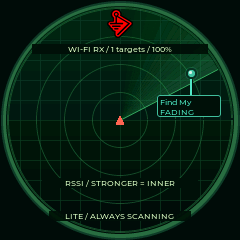
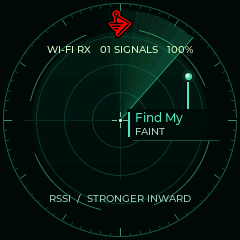
Refine Lite radar readability and rendering performance

Changed region(s): [[0.0, 0.0, 1.0, 1.0], [0.5833, 0.1167, 0.6417, 0.1458]]

diff --git a/web/index.html b/web/index.html
@@ -1,13 +1,13 @@
 <!doctype html>
-<html lang="en"><head><meta charset="utf-8"><meta name="viewport" content="width=device-width,initial-scale=1"><meta name="theme-color" content="#061b13"><title>Dragon Detector · Carry your radar</title><link rel="stylesheet" href="style.css?v=0.9.4-radar1"><script type="module" src="https://unpkg.com/esp-web-tools@10.4.0/dist/web/install-button.js?module"></script><script type="module" src="app.js?v=0.9.4"></script></head>
+<html lang="en"><head><meta charset="utf-8"><meta name="viewport" content="width=device-width,initial-scale=1"><meta name="theme-color" content="#061b13"><title>Dragon Detector · Carry your radar</title><link rel="stylesheet" href="style.css?v=0.9.5-radar1"><script type="module" src="https://unpkg.com/esp-web-tools@10.4.0/dist/web/install-button.js?module"></script><script type="module" src="app.js?v=0.9.5"></script></head>
 <body>
 <header><a class="brand" href="#"><img src="assets/BWM1-official.png" alt="BWM1 logo" width="32" height="36"> DRAGON DETECTOR</a><nav><a href="#install">Install</a><a href="#detector">Detector tools</a><a href="#sound">Audio</a><a href="#studio">Badge Studio</a><a href="https://github.com/valleytechsolutions/Dragon-Detector">GitHub ↗</a></nav></header>
 <main>
-<section class="hero"><div><p class="eyebrow">VALLEYTECH / DETECTION / HUNT EDITION / 0.9.4</p><h1>Carry your<br><em>radar.</em></h1><p class="lede">Three radar themes. A little more awareness.<br>Axon priority alerts, signal hunts, and local history.<br>Your pocket radar, with evidence behind every match.</p><div class="actions"><a class="button primary" href="#install">Choose your board <span>↗</span></a><a class="text-link" href="#detector">Open detector tools →</a></div><div class="hero-meta"><span>5 BOARD PROFILES · 1 LITE</span><span>MIT SOURCE</span><span>NO ACCOUNT</span></div></div>
+<section class="hero"><div><p class="eyebrow">VALLEYTECH / DETECTION / HUNT EDITION / 0.9.5</p><h1>Carry your<br><em>radar.</em></h1><p class="lede">Three radar themes. A little more awareness.<br>Axon priority alerts, signal hunts, and local history.<br>Your pocket radar, with evidence behind every match.</p><div class="actions"><a class="button primary" href="#install">Choose your board <span>↗</span></a><a class="text-link" href="#detector">Open detector tools →</a></div><div class="hero-meta"><span>5 BOARD PROFILES · 1 LITE</span><span>MIT SOURCE</span><span>NO ACCOUNT</span></div></div>
 <div class="radar-art"><img class="radar-capture" src="assets/radar-green-v091.png" alt="Actual M5Stack display render: BWM1 logo, animated green radar and labeled signal dots" width="466" height="466"><p>ACTUAL M5STACK DISPLAY RENDER · 0.9.1</p></div></section>
 <div class="feature-strip"><p><b>Notice the signal.</b><span>Fresh candidate signatures, with evidence.</span></p><p><b>Follow the change.</b><span>Filtered RSSI and dedicated target listening.</span></p><p><b>Keep the evidence.</b><span>Local history, watch lists, and USB CSV export.</span></p></div>
-<div class="theme-gallery" aria-label="Radar themes"><figure><img src="assets/radar-green-v091.png" alt="Green radar theme, actual M5Stack render" width="466" height="466"><figcaption>GREEN RADAR · DEFAULT</figcaption></figure><figure><img src="assets/radar-dragon-v091.png" alt="Dragon Ball theme, actual M5Stack render" width="466" height="466"><figcaption>DRAGON BALL</figcaption></figure><figure><img src="assets/radar-gold-v091.png" alt="Black, gold and red theme, actual M5Stack render" width="466" height="466"><figcaption>BLACK / GOLD / RED</figcaption></figure></div><p class="release-note">Every device family keeps its own color across all three themes. Bright labels and outlined leaders identify every plotted dot. Six labeled signals per radar page keep crowded scans readable. Full-feature boards offer themes in Settings or the USB controls below; Lite uses green radar with automatic pages. recent signals show their last-seen age.</p><section id="install"><div class="section-heading"><div><p class="eyebrow">01 / GET STARTED</p><h2>One radar. Five profiles.</h2></div><p>Desktop Chrome or Edge · USB data cable<br>Select the exact board/display combination. XIAO uses its own 8 MB layout.</p></div>
-<p class="release-note"><strong>0.9.4 experimental preview.</strong> The Lite profile adds always-on radar for the non-touch Waveshare 1.28-inch LCD. All five profiles share the detection engine. Waveshare and M5Stack display, touch and USB badge storage have basic hardware checks. Seeed XIAO Round validation is listed in the hardware notes. Spotpear hardware and all-day battery runtime still need testing. <a href="https://github.com/valleytechsolutions/Dragon-Detector/blob/main/docs/VALIDATION.md">View validation status →</a></p>
+<div class="theme-gallery" aria-label="Radar themes"><figure><img src="assets/radar-green-v091.png" alt="Green radar theme, actual M5Stack render" width="466" height="466"><figcaption>GREEN RADAR · DEFAULT</figcaption></figure><figure><img src="assets/radar-dragon-v091.png" alt="Dragon Ball theme, actual M5Stack render" width="466" height="466"><figcaption>DRAGON BALL</figcaption></figure><figure><img src="assets/radar-gold-v091.png" alt="Black, gold and red theme, actual M5Stack render" width="466" height="466"><figcaption>BLACK / GOLD / RED</figcaption></figure></div><p class="release-note">Every device family keeps its own color across all three themes. Bright labels and outlined leaders identify every plotted dot. Full boards show six labeled signals per radar page; Lite shows four with larger text. Full-feature boards offer themes in Settings or the USB controls below; Lite uses green radar with automatic pages. Recent signals show their last-seen age.</p><section id="install"><div class="section-heading"><div><p class="eyebrow">01 / GET STARTED</p><h2>One radar. Five profiles.</h2></div><p>Desktop Chrome or Edge · USB data cable<br>Select the exact board/display combination. XIAO uses its own 8 MB layout.</p></div>
+<p class="release-note"><strong>0.9.5 experimental preview.</strong> The Lite profile adds always-on radar for the non-touch Waveshare 1.28-inch LCD, now with larger device names, slim callouts and smoother radar animation. All five profiles share the detection engine. Waveshare and M5Stack display, touch and USB badge storage have basic hardware checks. Seeed XIAO Round validation is listed in the hardware notes. Spotpear hardware and all-day battery runtime still need testing. <a href="https://github.com/valleytechsolutions/Dragon-Detector/blob/main/docs/VALIDATION.md">View validation status →</a></p>
 <div class="boards" role="group" aria-label="Choose hardware">
 <button class="board" data-board="spotpear" aria-pressed="false"><span class="board-number">01</span><span class="device-outline lcd"><span>360 × 360</span></span><b>Spotpear / Guition</b><span>JC3636W518 · round LCD</span><small>Touch navigation · microSD logs</small></button>
 <button class="board" data-board="waveshare" aria-pressed="false"><span class="board-number">02</span><span class="device-outline amoled"><span>466 × 466</span></span><b>Waveshare AMOLED</b><span>ESP32-S3-Touch-AMOLED-1.75C</span><small>C variant only · BOOT + short PWR</small></button>

diff --git a/web/app.js b/web/app.js
@@ -3,9 +3,9 @@ import {BadgeSerial} from './serial.js';
 import {encodeBadge} from './badge-codec.js';
 import {uploadBadge} from './badge-transfer.js';
 import {readHistory} from './detector-transfer.js';
-import {parseBadgeInfo,hasDetectorTools,hasActivityTools,hasRadarTools,hasWearableTools} from './firmware-compat.js?v=0.9.4';
+import {parseBadgeInfo,hasDetectorTools,hasActivityTools,hasRadarTools,hasWearableTools} from './firmware-compat.js?v=0.9.5';
 import {readRadarSettings,saveRadarSettings} from './radar-transfer.js';
-import {boardProfiles,connectedProfile,validateManifest,supportsBadge} from './board-profiles.js?v=0.9.4';
+import {boardProfiles,connectedProfile,validateManifest,supportsBadge} from './board-profiles.js?v=0.9.5';
 import {badgeTransform,fitBadgeZoom,panFromPointer,rescalePan} from './badge-editor.js';
 const $ = id => document.getElementById(id);
 const models = Object.fromEntries(Object.entries(boardProfiles).map(([id,p])=>[id,p.name]));

diff --git a/firmware/src/ui_lite.cpp b/firmware/src/ui_lite.cpp
@@ -3,15 +3,16 @@
 #include "radar_layout.h"
 #include <lvgl.h>
 #include <math.h>
+#include <esp_heap_caps.h>
 #define S(v) (((v)*SCREEN_RES+((v)>=0?180:-180))/360)
-#define FCALLOUT (&lv_font_montserrat_8)
+#define FCALLOUT (&lv_font_montserrat_12)
 extern void scr_lvgl_init();
 extern const lv_img_dsc_t radar_logo;
 static constexpr int CENTER=SCREEN_RES/2;
 struct RadarPalette {uint32_t top,bottom,grid,ring,dot,sweep,text,panel;};
 static constexpr RadarPalette radarPalettes[]={
   {0x20b970,0x0c9553,0x095134,0xe0e5cd,0xffec50,0xb9ff72,0xfffae2,0x064a2e},
-  {0x09291c,0x020c08,0x153d28,0x286c42,0xc0ff65,0x52dc84,0xdbf9c3,0x0b2419}
+  {0x061f1b,0x020c0c,0x0c3027,0x286c52,0xc0ff65,0x45efad,0xdbf9c3,0x0b2419}
 };
 static constexpr unsigned radarTheme=1;
 static constexpr bool radarLabels=true;
@@ -20,40 +21,61 @@ static uint32_t radarPrepared=0;
 static int radarOrder[MAX_CONTACTS],radarCount=0;
 static uint32_t radarFrameAt=0;
 struct Dot {int x,y,index;dragon::DeviceKey key;int labelSlot=-1;};
-static Dot dots[dragon::RadarPageSize];static int dotCount=0;
+static Dot dots[dragon::LiteRadarPageSize];static int dotCount=0;
 static lv_color_t color(uint32_t c){return lv_color_hex(c);}
+static lv_img_dsc_t liteBackdrop;
+// Paint immutable instrument geometry once. Keep the internal display tile free
+// for moving content; this cache costs 115 KB of the otherwise idle PSRAM.
+static void prepareLiteBackdrop(lv_obj_t* root){
+  auto* pixels=(lv_color_t*)heap_caps_malloc(SCREEN_RES*SCREEN_RES*sizeof(lv_color_t),MALLOC_CAP_SPIRAM|MALLOC_CAP_8BIT);
+  if(!pixels){Serial.println("LITE_BACKGROUND cache unavailable");return;}
+  auto* canvas=lv_canvas_create(root);lv_canvas_set_buffer(canvas,pixels,SCREEN_RES,SCREEN_RES,LV_IMG_CF_TRUE_COLOR);lv_canvas_fill_bg(canvas,color(0x020b0b),LV_OPA_COVER);
+  lv_draw_rect_dsc_t field;lv_draw_rect_dsc_init(&field);field.radius=LV_RADIUS_CIRCLE;field.bg_color=color(0x061f1b);field.bg_grad.dir=LV_GRAD_DIR_VER;field.bg_grad.stops[0].color=field.bg_color;field.bg_grad.stops[1].color=color(0x020c0c);
+  lv_canvas_draw_rect(canvas,32,32,176,176,&field);
+  lv_draw_arc_dsc_t arc;lv_draw_arc_dsc_init(&arc);arc.width=1;arc.color=color(0x153e32);
+  for(int r:{28,56,84})lv_canvas_draw_arc(canvas,CENTER,CENTER,r,0,359,&arc);
+  arc.color=color(0x245f4c);lv_canvas_draw_arc(canvas,CENTER,CENTER,117,0,359,&arc);
+  arc.color=color(0x307b5d);for(int a=12;a<360;a+=90)lv_canvas_draw_arc(canvas,CENTER,CENTER,92,a,a+56,&arc);
+  lv_draw_line_dsc_t d;lv_draw_line_dsc_init(&d);d.width=1;d.color=color(0x0b2a23);
+  lv_point_t horizontal[]={{24,120},{216,120}},vertical[]={{120,64},{120,180}};
+  lv_canvas_draw_line(canvas,horizontal,2,&d);lv_canvas_draw_line(canvas,vertical,2,&d);
+  for(int deg=0;deg<360;deg+=5){float a=deg*.0174532925f;int inner=deg%30==0?108:113;d.color=color(deg%30==0?0x44866a:0x1c483b);
+    lv_point_t p[]={{lv_coord_t(CENTER+lroundf(cosf(a)*inner)),lv_coord_t(CENTER+lroundf(sinf(a)*inner))},{lv_coord_t(CENTER+lroundf(cosf(a)*116)),lv_coord_t(CENTER+lroundf(sinf(a)*116))}};lv_canvas_draw_line(canvas,p,2,&d);
+  }
+  liteBackdrop=*lv_canvas_get_img(canvas);lv_obj_del(canvas);
+}
 #include "radar_renderer.inc"
 static lv_obj_t *root,*radar,*status,*activity,*pageLabel,*notice;
 static uint32_t noticeAt=0,lastFrame=0,frames=0;
 static lv_obj_t* text(const char* value,int y,int width,const lv_font_t* font,uint32_t rgb){
   auto* o=lv_label_create(root);lv_label_set_text(o,value);lv_obj_set_size(o,width,LV_SIZE_CONTENT);lv_obj_set_pos(o,(SCREEN_RES-width)/2,y);
   lv_obj_set_style_text_font(o,font,0);lv_obj_set_style_text_color(o,color(rgb),0);lv_obj_set_style_text_align(o,LV_TEXT_ALIGN_CENTER,0);
-  lv_obj_set_style_bg_color(o,color(dragon::RadarLabelBackground),0);lv_obj_set_style_bg_opa(o,LV_OPA_90,0);lv_label_set_long_mode(o,LV_LABEL_LONG_DOT);return o;
+  lv_label_set_long_mode(o,LV_LABEL_LONG_DOT);return o;
 }
 void uiBegin(){
   candidatesOnly=true;radarRecent=true;scr_lvgl_init();root=lv_scr_act();lv_obj_clear_flag(root,LV_OBJ_FLAG_SCROLLABLE);lv_obj_set_style_bg_color(root,color(0x020c08),0);
+  prepareLiteBackdrop(root);
   radar=lv_obj_create(root);lv_obj_remove_style_all(radar);lv_obj_set_pos(radar,0,0);lv_obj_set_size(radar,SCREEN_RES,SCREEN_RES);lv_obj_clear_flag(radar,LV_OBJ_FLAG_SCROLLABLE);lv_obj_clear_flag(radar,LV_OBJ_FLAG_CLICKABLE);
   lv_obj_add_event_cb(radar,radarDraw,LV_EVENT_DRAW_MAIN,nullptr);
   auto* logo=lv_img_create(root);lv_img_set_src(logo,&radar_logo);lv_obj_align(logo,LV_ALIGN_TOP_MID,0,9);
-  status=text("STARTING RADIO",44,176,&lv_font_montserrat_8,0xdbf9c3);
-  activity=text("",57,154,&lv_font_montserrat_8,0xffbc76);
-  pageLabel=text("",178,156,&lv_font_montserrat_10,0xdbf9c3);
-  notice=text("",191,154,&lv_font_montserrat_10,0xffe78a);
+  status=text("STARTING RADIO",44,184,&lv_font_montserrat_10,0xdbf9c3);
+  activity=text("",57,172,&lv_font_montserrat_10,0xffbc76);
+  pageLabel=text("",193,150,&lv_font_montserrat_10,0x9acbb7);
+  notice=text("",207,132,&lv_font_montserrat_10,0xffe78a);
   lv_obj_set_height(notice,13);lv_obj_add_flag(activity,LV_OBJ_FLAG_HIDDEN);lv_obj_add_flag(notice,LV_OBJ_FLAG_HIDDEN);
-  text("LITE / ALWAYS SCANNING",211,142,&lv_font_montserrat_8,0xdbf9c3);
 }
 void uiLoop(){
   const uint32_t now=millis();
   // Leave time between full radar draws to drain reception queues on the S3R2.
-  if(uint32_t(now-lastFrame)>=125){lastFrame=radarFrameAt=now;++frames;lv_obj_invalidate(radar);
-    char value[80];snprintf(value,sizeof(value),"%s RX / %d targets / 100%%",blePhase?"BLE":"WI-FI",radarCount);lv_label_set_text(status,value);
+  if(uint32_t(now-lastFrame)>=83){lastFrame=radarFrameAt=now;++frames;lv_obj_invalidate(radar);
+    char value[80];snprintf(value,sizeof(value),"%s RX   %02d SIGNALS   100%%",blePhase?"BLE":"WI-FI",radarCount);lv_label_set_text(status,value);
     const bool deauth=trafficStatus.disconnectActive(now),spam=trafficStatus.bleActive(now);
     lv_label_set_text(activity,deauth&&spam?"DEAUTH + BLE BURST":deauth?"DEAUTH ACTIVITY":spam?"BLE SPAM CANDIDATE":"");
     if(deauth||spam)lv_obj_clear_flag(activity,LV_OBJ_FLAG_HIDDEN);else lv_obj_add_flag(activity,LV_OBJ_FLAG_HIDDEN);
-    const unsigned pages=dragon::radarPages(radarCount);
-    if(pages>1)snprintf(value,sizeof(value),"TARGETS %u / %u",radarPage+1,pages);
-    else snprintf(value,sizeof(value),"%s",radarCount?"RSSI / STRONGER = INNER":"LISTENING FOR SIGNATURES");
-    lv_obj_set_style_text_font(pageLabel,pages>1?&lv_font_montserrat_10:&lv_font_montserrat_8,0);lv_label_set_text(pageLabel,value);
+    const unsigned pages=dragon::radarPages(radarCount,dragon::LiteRadarPageSize);
+    if(pages>1)snprintf(value,sizeof(value),"RSSI   /   PAGE %02u : %02u",radarPage+1,pages);
+    else snprintf(value,sizeof(value),"%s",radarCount?"RSSI  /  STRONGER INWARD":"SCANNING  /  BLE + WI-FI");
+    lv_label_set_text(pageLabel,value);
     if(!noticeAt||uint32_t(now-noticeAt)>5000)lv_obj_add_flag(notice,LV_OBJ_FLAG_HIDDEN);
   }
   lv_timer_handler();
@@ -64,8 +86,8 @@ void uiNotify(const char* title,const char*,const dragon::DeviceKey*,bool){
 void uiShow(const String&){} void uiKey(bool){}
 bool uiStopwatchKey(bool,uint64_t){return false;}
 bool uiCommand(const String& c){
-  if(c=="ui status"){Serial.printf("UI_STATUS page=radar lite=1 frames=%lu\n",frames);return true;}
-  if(c=="radar status"){Serial.printf("RADAR_SETTINGS theme=1 labels=1 recent=1 page=%u pages=%u plotted=%u auto_page_ms=7000\n",radarPage+1,dragon::radarPages(radarCount),dotCount);return true;}
+  if(c=="ui status"){Serial.printf("UI_STATUS page=radar lite=1 frames=%lu backdrop=%u frame_ms=83\n",frames,liteBackdrop.data?1:0);return true;}
+  if(c=="radar status"){Serial.printf("RADAR_SETTINGS theme=1 labels=1 recent=1 page=%u pages=%u plotted=%u auto_page_ms=7000\n",radarPage+1,dragon::radarPages(radarCount,dragon::LiteRadarPageSize),dotCount);return true;}
   if(c=="display status"){Serial.println("DISPLAY_SETTINGS brightness=100 output=100 dim=0 off=0 dim_level=0 wake=0");return true;}
   return false;
 }

diff --git a/firmware/include/radar_layout.h b/firmware/include/radar_layout.h
@@ -5,6 +5,7 @@
 
 namespace dragon {
 constexpr unsigned RadarPageSize=6;
+constexpr unsigned LiteRadarPageSize=4;
 struct RadarPoint {int x,y;};
 struct RadarAutoPager {
   unsigned page=0;uint32_t changed=0;bool started=false;
@@ -23,20 +24,24 @@ inline RadarPoint radarPlotPoint(float radius,float unitX,float unitY){
   return {180+int(lroundf(x)),180+int(lroundf(y))};
 }
 struct RadarLabelBox {int x,y,w=94,h=32;};
-inline RadarLabelBox radarLabelSlot(unsigned slot){return {30+int(slot%3)*103,102+int(slot/3)*40,94,32};}
-inline unsigned radarPages(unsigned count){return count?(count+RadarPageSize-1)/RadarPageSize:1;}
+inline RadarLabelBox radarLabelSlot(unsigned slot,bool lite=false){
+  if(lite)return {30+int(slot%2)*160,105+int(slot/2)*59,140,46};
+  return {30+int(slot%3)*103,102+int(slot/3)*40,94,32};
+}
+inline unsigned radarPages(unsigned count,unsigned perPage=RadarPageSize){return count?(count+perPage-1)/perPage:1;}
 // Fixed, non-overlapping slots keep every plotted target labeled on a small
 // round display. Prefer short leaders and avoid covering any target marker.
 // Coordinates are logical 360px units; the renderer scales both resolutions.
-inline void placeRadarLabels(const RadarPoint* points,unsigned count,uint8_t* slots,const uint8_t* preferred=nullptr){
+inline void placeRadarLabels(const RadarPoint* points,unsigned count,uint8_t* slots,const uint8_t* preferred=nullptr,bool lite=false){
   uint16_t used=0;
-  for(unsigned i=0;i<count&&i<RadarPageSize;++i){int best=0;int64_t bestCost=INT64_MAX;
-    for(unsigned slot=0;slot<12;++slot){if(used&(1u<<slot))continue;auto b=radarLabelSlot(slot);
+  const unsigned limit=lite?LiteRadarPageSize:RadarPageSize,slotCount=lite?6:12;
+  for(unsigned i=0;i<count&&i<limit;++i){int best=0;int64_t bestCost=INT64_MAX;
+    for(unsigned slot=0;slot<slotCount;++slot){if(used&(1u<<slot))continue;auto b=radarLabelSlot(slot,lite);
       int edgeX=points[i].x<b.x?b.x:points[i].x>b.x+b.w?b.x+b.w:points[i].x;
       int edgeY=points[i].y<b.y?b.y:points[i].y>b.y+b.h?b.y+b.h:points[i].y;
       int dx=points[i].x-edgeX,dy=points[i].y-edgeY;int64_t cost=dx*dx+dy*dy;
-      if(preferred&&preferred[i]==slot)cost-=800; // resist small RSSI-driven label jitter
-      for(unsigned j=0;j<count&&j<RadarPageSize;++j)if(points[j].x>=b.x-9&&points[j].x<=b.x+b.w+9&&points[j].y>=b.y-9&&points[j].y<=b.y+b.h+9)cost+=1000000;
+      if(preferred&&preferred[i]==slot)cost-=lite?25000:800; // resist RSSI-driven label jitter
+      for(unsigned j=0;j<count&&j<limit;++j)if(points[j].x>=b.x-9&&points[j].x<=b.x+b.w+9&&points[j].y>=b.y-9&&points[j].y<=b.y+b.h+9)cost+=1000000;
       // Keep the center cursor visible whenever another slot is available.
       if(180>=b.x&&180<=b.x+b.w&&180>=b.y-7&&180<=b.y+b.h+7)cost+=500000;
       if(cost<bestCost){bestCost=cost;best=slot;}

diff --git a/tests/radar_layout_test.h b/tests/radar_layout_test.h
@@ -1,9 +1,21 @@
 #include "radar_layout.h"
 static void radarLayoutTests(){
   for(int radius=18;radius<=158;++radius)for(int degrees=0;degrees<360;++degrees){float a=degrees*.0174532925f;auto p=radarPlotPoint(radius,cosf(a),sinf(a));assert(p.y>=104&&p.y<=242);assert(fabs(hypotf(p.x-180,p.y-180)-radius)<.8f);}
-  for(unsigned count=0;count<=MAX_CONTACTS;++count){unsigned covered=0;
-    for(unsigned page=0;page<radarPages(count);++page){unsigned first=page*RadarPageSize,last=std::min<unsigned>(first+RadarPageSize,count);assert(last-first<=6);covered+=last-first;}
+  for(unsigned pageSize:{RadarPageSize,LiteRadarPageSize})for(unsigned count=0;count<=MAX_CONTACTS;++count){unsigned covered=0;
+    for(unsigned page=0;page<radarPages(count,pageSize);++page){unsigned first=page*pageSize,last=std::min<unsigned>(first+pageSize,count);assert(last-first<=pageSize);covered+=last-first;}
     assert(covered==count);
+  }
+  // The larger Lite plates must fit inside the round panel, clear its status
+  // and footer, and never overlap even when four targets cluster together.
+  for(unsigned run=0;run<2000;++run){RadarPoint points[4];uint8_t slots[5]={255,255,255,255,231},again[4];unsigned count=1+run%4;
+    for(unsigned i=0;i<count;++i)points[i]={25+int((run*71+i*43)%310),104+int((run*31+i*67)%139)};
+    placeRadarLabels(points,count,slots,nullptr,true);placeRadarLabels(points,count,again,nullptr,true);uint16_t used=0;
+    assert(slots[4]==231);
+    for(unsigned i=0;i<count;++i){assert(slots[i]<6&&!(used&(1u<<slots[i]))&&slots[i]==again[i]);used|=1u<<slots[i];auto a=radarLabelSlot(slots[i],true);
+      assert(a.y>=105&&a.y+a.h<282&&a.w>=138&&a.h>=46);
+      for(int x:{a.x,a.x+a.w})for(int y:{a.y,a.y+a.h})assert(hypotf(x-180,y-180)<178);
+      for(unsigned j=0;j<i;++j){auto b=radarLabelSlot(slots[j],true);assert(a.x+a.w<b.x||b.x+b.w<a.x||a.y+a.h<b.y||b.y+b.h<a.y);}
+    }
   }
   for(unsigned run=0;run<2000;++run){RadarPoint points[6];uint8_t slots[6],again[6];unsigned count=1+run%6;
     for(unsigned i=0;i<count;++i)points[i]={25+int((run*71+i*43)%310),30+int((run*31+i*67)%300)};

diff --git a/firmware/include/version.h b/firmware/include/version.h
@@ -1,3 +1,3 @@
 #pragma once
 // Release packager reads this same value for all board manifests.
-#define DRAGON_VERSION "0.9.4"
+#define DRAGON_VERSION "0.9.5"

diff --git a/docs/VALIDATION.md b/docs/VALIDATION.md
@@ -1,8 +1,16 @@
-# Validation status · 0.9.4
+# Validation status · 0.9.5
 
 This is an experimental development release. Automated signature checks and basic board checks do not establish field detection accuracy or all-day battery life.
 
 The release workflow covers five profiles: Spotpear JC3636W518, Waveshare 1.75C, M5Stack StopWatch C152, Seeed XIAO ESP32-S3 + Round Display and Waveshare ESP32-S3-LCD-1.28 Lite. Audio-equipped boards retain full-range PCM/codec output and a 100% volume default. The Seeed assembly has no onboard speaker. Release packaging checks are separate from physical hardware tests.
+
+## Lite readability and rendering refinement · 0.9.5 · 2026-10-14
+
+- The owner confirmed that 12-pixel device names are readable and that the final slim-callout, fine-ring design looks better. The 240×240 framebuffer passed CRC32 and the current hardware guide includes the captured preview.
+- The final app was flashed at `0x10000` with esptool hash verification and restarted into radar-only mode. All **23 on-device tests** passed; brightness stayed at 100%, disabled-mode commands were rejected and passive BLE/Wi-Fi counters continued increasing with zero receive-queue drops in the short check.
+- UI diagnostics measured a typical draw at **65.8 ms**, versus 101.3 ms in the earlier large-text build. Frames advanced at approximately twelve per second. The 115 KB background cache left roughly **175 KB internal heap and 1.65 MB PSRAM free**, stable across the check. This is a bench comparison with one visible candidate, not a guarantee for all target counts or RF conditions.
+- All five firmware profiles compiled. Native tests verify all 384 contacts across both four- and six-target pagination, larger callout containment within the circular panel, non-overlap and existing signature/fuzz cases. Twenty-seven web tests passed. Full-board defaults remain six labels per page; Lite cycles four every seven seconds. Multi-page radio operation with more than four distinct controlled devices has not been physically exercised.
+- Detection logic did not change in this visual revision; the 0.9.4 synthetic Axon receive checks below remain the relevant radio evidence. Screenshot transfer briefly pauses reception, so it was performed after timing/queue measurements, then the board was restarted to leave normal scanning active.
 
 ## Waveshare ESP32-S3-LCD-1.28 Lite · 0.9.4 · 2026-10-14
 
@@ -13,7 +21,7 @@ The release workflow covers five profiles: Spotpear JC3636W518, Waveshare 1.75C,
 - Controlled synthetic advertisements from the local computer tested manufacturer `034D` and services `FC81`, `FE6B`, `FE6C`. Each produced an Axon classification/visual alert, with zero priority-queue drops. This verifies those receive paths, **not real body-camera model/recording state or field accuracy**. Synthetic test contacts were cleared by restarting after the tests.
 - Multiple 240×240 framebuffer captures passed CRC32, including a synthetic Axon visual alert with the radar still visible. The UART screenshot command deliberately pauses reception for its approximately ten-second transfer; its inflated maximum queue-age statistics are excluded from normal-scan latency assessment. A fresh restart restores ordinary scanning.
 - Native checks cover automatic seven-second pagination, empty lists, changing page counts and millisecond rollover, alongside all 134 pinned reference facts and existing parser/tracking/fuzz cases. Twenty-seven web tests include exact Lite identity, minimum release version, manifest/partition checks and exclusion from badge controls. Browser checks confirmed Lite factory/update selection and resetting hardware confirmation when the installation type changes.
-- Physical panel orientation and colors still require the owner's confirmation; framebuffer captures cannot verify them. Multi-page cycling is covered by native logic tests, not a controlled live test with more than six distinct target devices.
+- The owner confirmed correct physical panel orientation and colors, but reported that the 0.9.4 text was too small. Multi-page cycling is covered by native logic tests, not a controlled live test with more than six distinct target devices.
 
 ## Waveshare Axon correction · 0.9.3 · 2026-10-14
 

diff --git a/docs/WAVESHARE-LITE.md b/docs/WAVESHARE-LITE.md
@@ -8,9 +8,9 @@ Actual 240×240 framebuffer capture from the connected board, not a panel photog
 
 ## A dedicated radar
 
-- Boots straight to the green radar, with BWM logo, live sweep and Wi-Fi/BLE reception status.
+- Boots straight to the green radar, with BWM logo, live sweep and Wi-Fi/BLE reception status. Fine range rings, segmented arcs and edge ticks replace the dense grid; every device keeps its unique family color.
 - Always 100% backlight; no dimming or timeout. The displayed **100% is brightness, not battery charge**.
-- Up to six labeled targets per page. Extra pages cycle automatically every seven seconds. Every plotted target has its family color and leader line; stale/weak clues have distinct markers. No tap or button is required.
+- Up to four labeled targets per page. Version 0.9.5 increases device names from 8 to 12 pixels, uses slim two-line callouts with 10-pixel signal text and enlarges radio status. Extra pages cycle automatically every seven seconds. Every plotted target has its family color and leader line; stale/weak clues have distinct markers. No tap or button is required.
 - Signal radius uses the same median-filtered, smoothed RSSI as the full firmware. Stronger signals move inward. Neither the angle nor radius is a measured direction or distance.
 - All 26 detector families remain enabled, including the 0.9.3 Axon priority/receive fixes, ALPR, Find My accessories, Ring, Flipper and Wi-Fi/BLE activity detection. [Signature coverage and limitations](DETECTION.md) apply equally to Lite.
 - Passive BLE scanning and passive Wi-Fi reception alternate on the one shared radio, with Wi-Fi channels 1–11. Reception continues while drawing, but alternating modes/channel hopping still create listening gaps. No active probing, wireless attacks or fox transmitter.
@@ -29,7 +29,7 @@ Actual 240×240 framebuffer capture from the connected board, not a panel photog
 | USB | CH343P UART bridge, 115200 diagnostics; native USB CDC disabled |
 | Input / sound | No touch, no onboard speaker/buzzer |
 
-An 11,520-byte display tile uses internal RAM; the 384-contact store and receive queues use PSRAM. Animation time and RSSI positions stay fixed while the tiles of one frame are drawn. Rendering is capped at eight updates per second to leave processing time for reception; no menu objects, audio tasks or flash history journal run in Lite. The QMI8658 is intentionally unused. Battery percentage is not inferred from an uncalibrated ADC.
+An 11,520-byte display tile uses internal RAM; the 384-contact store and receive queues use PSRAM. Animation time and RSSI positions stay fixed while the tiles of one frame are drawn. The fixed radar artwork is rendered once into a 115,200-byte PSRAM cache. Animation is capped at twelve updates per second; the connected board measured about 66 ms per draw, down from 101 ms before this refinement. This leaves time between frames for reception; no menu objects, audio tasks or flash history journal run in Lite. The QMI8658 is intentionally unused. Battery percentage is not inferred from an uncalibrated ADC.
 
 ## Install and recover
 

diff --git a/README.md b/README.md
@@ -6,7 +6,7 @@
 
 **[Open the web flasher & detector tools](https://valleytechsolutions.github.io/Dragon-Detector/)** · [Install guide](docs/FLASHING.md) · [Controls](docs/USER-GUIDE.md) · [Detection evidence](docs/DETECTION.md) · [Credits](CREDITS.md)
 
-Version **0.9.4** adds the [Waveshare 1.28 Lite radar](docs/WAVESHARE-LITE.md), with automatic target pages and a fixed always-on display. It retains the 0.9.3 improvements to [Axon detection and priority alerts](docs/AXON.md): first-hit vendor alerts, reserved receive capacity, shorter listening gaps and AXEOFF compatibility clues. It is an experimental development release; see [what has actually been tested](docs/VALIDATION.md). The flasher requires desktop Chrome/Edge, HTTPS, a USB data cable, and the exact board selection; it stays disabled if matching release files are unavailable.
+Version **0.9.5** refines the [Waveshare 1.28 Lite radar](docs/WAVESHARE-LITE.md), with larger text, a refined instrument-style radar, four targets per automatic page and a fixed always-on display. It retains the 0.9.3 improvements to [Axon detection and priority alerts](docs/AXON.md): first-hit vendor alerts, reserved receive capacity, shorter listening gaps and AXEOFF compatibility clues. It is an experimental development release; see [what has actually been tested](docs/VALIDATION.md). The flasher requires desktop Chrome/Edge, HTTPS, a USB data cable, and the exact board selection; it stays disabled if matching release files are unavailable.
 
 ## Choose the exact board
 

diff --git a/CHANGELOG.md b/CHANGELOG.md
@@ -1,5 +1,11 @@
 # Changes
 
+## 0.9.5 — Refined Lite radar
+
+- Increase Lite device names from 8 to 12 pixels, with slim two-line callouts and four targets per automatically cycling page. Enlarge radio status, simplify the footer and strengthen label-position stability.
+- Replace the dense grid and thick bezel with fine range rings, segmented arcs, edge ticks and a center reticle. Cache the static artwork in 115 KB of PSRAM; raise the animation cap from eight to twelve updates per second.
+- Keep the full boards' six-target layout, shared detection and device colors unchanged. Extend native checks to cover every contact across four-target pages and collision-free larger labels inside the round panel.
+
 ## 0.9.4 — Waveshare 1.28 Lite
 
 - Add the non-touch Waveshare ESP32-S3-LCD-1.28 with 16 MB flash, 2 MB quad-SPI PSRAM, a GC9A01 panel and CH343 serial diagnostics. Select SPI3/HSPI explicitly for display initialization.
